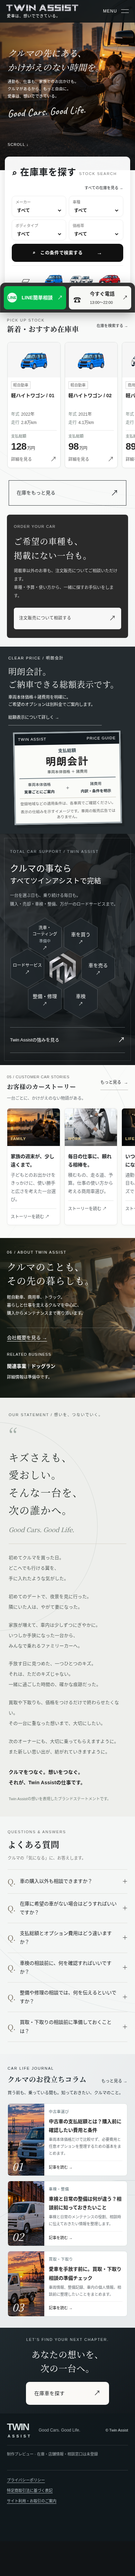
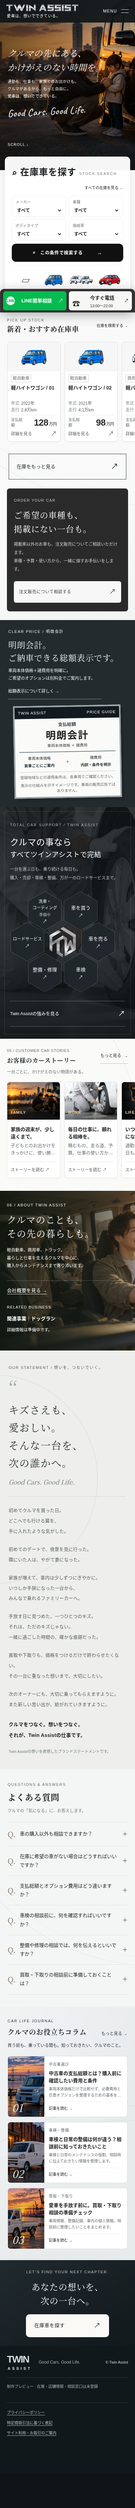
Compact mobile vehicle cards and sticky CTA and clamp editorial previews

diff --git a/cms/public/cms-public.css b/cms/public/cms-public.css
@@ -1,3 +1,7 @@
 .cms-public-main{background:#f7f9f7}.cms-public-list{padding:45px 38px}.cms-public-list>h1,.cms-public-detail>h1,.cms-contact>h1{font-family:'Yu Mincho',serif;font-size:32px;font-weight:500;line-height:1.7;margin:16px 0 25px}.cms-public-list>p{font-size:14px;margin:20px 0}.cms-public-grid{display:grid;grid-template-columns:repeat(3,minmax(0,1fr));gap:20px;margin-top:25px}.cms-public-card{background:white;border:1px solid #d5dfe0;border-radius:7px;overflow:hidden;min-width:0}.cms-public-card>a{display:block;height:100%}.cms-public-card>a>img{display:block;width:100%;height:170px;object-fit:cover}.cms-public-card>a>div{padding:17px}.cms-public-card h2{font-size:16px;line-height:1.6;letter-spacing:0;font-weight:500;margin:12px 0}.cms-public-card .eyebrow{font-size:11px;color:#82959c}.cms-public-card p{font-size:13px;line-height:1.9}.cms-public-card time{display:block;font-size:12px;color:#82959c;margin-top:14px}.cms-card-more{display:block;border-top:1px solid #d8e2df;font-size:13px;padding-top:13px;margin-top:17px}.cms-public-price{display:flex;justify-content:space-between;align-items:end;gap:9px;margin-top:15px}.cms-public-price>strong{font-size:28px;color:#25353b;font-weight:500}.cms-public-price small{font-size:11px;font-weight:400}.cms-public-price strong small{margin-left:3px}.cms-sale-status{font-size:12px;background:#e7eeeb;padding:4px 8px;color:#587064;display:inline-block;margin-top:10px}.cms-sample-tag{display:inline-block;color:#8a6c4b;border:1px solid #cebba2;font-size:11px;padding:2px 5px;margin-bottom:12px}.cms-public-empty{padding:30px 20px;border:1px solid #d7e1de;margin:25px 0;font-size:14px;background:#eef3ef}.cms-public-empty h2{font-size:22px}.cms-category-nav{display:flex;flex-wrap:wrap;gap:20px;border-bottom:1px solid #cbd7d6;margin:20px 0;font-size:14px}.cms-category-nav a{padding:13px 0}.cms-public-refine{padding:15px;border:1px solid #c7d5d1;font-size:14px}.cms-public-refine summary{cursor:pointer}.cms-public-refine form>div{display:grid;grid-template-columns:1fr 1fr;gap:15px}.cms-public-refine form .cms-field{display:grid;gap:8px;font-size:13px}.cms-public-refine .button{margin-top:15px}.cms-public-detail{padding:40px 38px}.cms-public-preview{background:#f3eede;border-left:3px solid #a6916a;padding:18px 20px;font-size:13px;color:#7a694b}.cms-public-preview a{display:block;text-decoration:underline}.cms-real-vehicle{display:grid;grid-template-columns:1.2fr 1fr;gap:25px;align-items:start;margin:25px 0}.cms-real-photo{position:relative;display:block;width:100%;border:1px solid #d6dfdf;background:#edf1ed;padding:0;cursor:zoom-in}.cms-real-photo img{display:block;width:100%;height:330px;object-fit:contain}.cms-real-photo span{position:absolute;bottom:10px;right:12px;background:#1c2a31bf;color:white;padding:5px 9px;font-size:12px}.cms-real-thumbs{display:grid;grid-template-columns:repeat(4,minmax(0,1fr));gap:8px;margin-top:12px}.cms-real-thumbs button{padding:0;background:white;border:1px solid #c5d2d2;cursor:pointer}.cms-real-thumbs button[aria-pressed=true]{border:2px solid #3e5a4c}.cms-real-thumbs img{width:100%;height:65px;object-fit:cover;display:block}.cms-real-price{background:white;border:1px solid #d0dcda;padding:22px}.cms-real-price>strong{font-size:49px;font-weight:500;line-height:1.6;display:block}.cms-real-price>strong small{font-size:15px}.cms-real-price>p{font-size:13px;line-height:2}.cms-real-price dl{margin:15px 0}.cms-real-price dl>div{display:flex;justify-content:space-between;gap:15px;font-size:13px;border-top:1px solid #d4dfdb;padding:12px 0}.cms-real-price dd{margin:0}.cms-real-price .button{display:flex;width:100%;margin-top:18px;min-width:0;padding:14px;font-size:13px}.cms-real-price .text-link{font-size:13px}.cms-public-specs,.cms-public-equipment,.cms-public-related{padding-top:30px;border-top:1px solid #c8d6d3;margin-top:35px}.cms-public-specs h2,.cms-public-equipment h2,.cms-public-related h2{font-size:25px;font-weight:500;margin-bottom:20px}.cms-public-specs>dl{display:grid;grid-template-columns:1fr 1fr;gap:0 25px}.cms-public-specs dl>div{display:grid;grid-template-columns:100px 1fr;gap:12px;padding:13px 0;border-bottom:1px solid #d2deda;font-size:14px}.cms-public-specs dd{margin:0}.cms-public-specs dt{color:#8a9b9f}.cms-public-equipment-grid{display:grid;grid-template-columns:repeat(3,minmax(0,1fr));gap:10px}.cms-public-equipment-grid>div{border:1px solid #b0c4b7;background:#eff8ef;color:#497451;padding:17px;text-align:center}.cms-public-equipment-grid>div.absent{background:#e9edeb;color:#89938f;border-color:#c7d0cc}.cms-public-equipment-grid strong{display:block;font-size:14px;font-weight:500}.cms-public-equipment-grid span{font-size:12px;display:block;margin-top:10px}.cms-article-body{padding:30px 0;max-width:760px;margin:auto}.cms-article-body h2{font-size:25px;margin:35px 0 18px;font-weight:500}.cms-article-body h3{font-size:19px;margin:25px 0 14px}.cms-article-body p,.cms-article-body li{font-size:14px;line-height:2.3;white-space:pre-wrap;overflow-wrap:anywhere}.cms-article-body p+p{margin-top:20px}.cms-article-body ul{padding-left:1.5em}.cms-article-body a{text-decoration:underline;color:#396a57;text-underline-offset:3px}.cms-public-meta{display:flex;gap:25px;flex-wrap:wrap;font-size:12px;color:#91a2a6;margin:15px 0 25px}.cms-public-cover{margin:25px 0}.cms-public-cover img{width:100%;max-height:500px;object-fit:cover;display:block}.cms-public-inline-images{display:grid;grid-template-columns:1fr 1fr;gap:18px;margin:25px 0}.cms-public-inline-images img{width:100%;height:auto}.cms-real-photo-dialog{width:min(900px,94vw);max-height:90vh;padding:20px;border:0;background:#f7f9f7}.cms-real-photo-dialog::backdrop{background:#000b}.cms-real-photo-dialog>button{display:block;margin-left:auto;font-size:25px;background:none;border:0}.cms-real-photo-dialog>img{display:block;max-height:65vh;width:100%;object-fit:contain}.cms-real-photo-dialog>div{display:flex;justify-content:space-between;align-items:center;gap:15px;margin-top:15px;font-size:14px}.cms-real-photo-dialog>div button{padding:10px 15px;background:white;border:1px solid #bccbc5}.cms-contact .cms-field{display:flex;flex-direction:column;gap:8px;font-size:14px;margin:20px 0}.cms-contact input,.cms-contact select,.cms-contact textarea{padding:12px;font:inherit;width:100%;border:1px solid #bccdc8;background:white;border-radius:0;height:auto}.cms-contact .cms-field small{font-size:12px;color:#8d9e9f}.cms-contact .cms-check{display:flex;align-items:start;gap:9px;font-size:14px;margin:20px 0}.cms-contact .cms-check input{width:15px;margin-top:5px;flex-shrink:0}.cms-contact .cms-check a{text-decoration:underline}.cms-contact .cms-status-list>div{border-bottom:1px solid #c9d6d4;padding:15px 0;display:grid;grid-template-columns:140px 1fr;gap:15px}.cms-contact .cms-status-list dt{font-size:13px;color:#80979a}.cms-contact .cms-status-list dd{font-size:14px;line-height:2;margin:0;overflow-wrap:anywhere}.cms-contact>.cms-error{background:#ffede7;color:#994f3c;border-left:3px solid #a86a52;padding:15px;margin:20px 0}.cms-contact form>.button{margin:18px 0}.cms-contact .cms-honeypot{position:absolute;left:-10000px;width:1px;height:1px;overflow:hidden}
 @media(max-width:767px){.cms-public-list,.cms-public-detail{padding:30px 22px}.cms-public-list>h1,.cms-public-detail>h1,.cms-contact>h1{font-size:26px}.cms-public-grid{grid-template-columns:1fr 1fr;gap:12px}.cms-public-card>a>img{height:120px}.cms-public-card>a>div{padding:12px}.cms-public-card h2{font-size:14px}.cms-public-card p{font-size:12px}.cms-public-price{display:block}.cms-public-price>strong{display:block;font-size:25px}.cms-category-nav{gap:15px;font-size:12px}.cms-real-vehicle{grid-template-columns:1fr;gap:22px}.cms-real-photo img{height:280px}.cms-public-specs>dl{grid-template-columns:1fr}.cms-public-equipment-grid{gap:7px}.cms-public-equipment-grid>div{padding:13px 6px}.cms-public-equipment-grid strong{font-size:12px}.cms-public-specs h2,.cms-public-equipment h2{font-size:22px}.cms-article-body p,.cms-article-body li{font-size:14px}.cms-article-body h2{font-size:23px}.cms-public-inline-images{grid-template-columns:1fr}.cms-contact .cms-field input,.cms-contact .cms-field select,.cms-contact .cms-field textarea{font-size:16px}.cms-contact .cms-status-list>div{grid-template-columns:1fr;gap:5px}.cms-home-stock,.cms-home-articles{display:grid;grid-template-columns:none;grid-auto-flow:column;grid-auto-columns:44%;overflow-x:auto;gap:12px;padding:1px 20px 12px 1px;scroll-snap-type:x mandatory}.cms-home-stock>article,.cms-home-articles>article{scroll-snap-align:start}.cms-public-preview{font-size:12px;padding:13px}}
 .cms-answer-summary,.cms-key-points,.cms-evidence-faq,.cms-sources{padding:24px;border:1px solid #cfdbd6;margin:25px 0;background:#f0f4f1}.cms-answer-summary h2,.cms-key-points h2,.cms-evidence-faq h2,.cms-sources h2{font-size:20px;font-weight:500;margin-bottom:15px}.cms-answer-summary p,.cms-key-points li,.cms-evidence-faq p,.cms-sources li{font-size:14px;line-height:2.1;color:#546c70;overflow-wrap:anywhere}.cms-evidence-faq details{border-top:1px solid #cad6d3;padding:15px 0}.cms-evidence-faq summary{font-size:14px;cursor:pointer}.cms-evidence-faq p{margin-top:12px}.cms-sources a{text-decoration:underline;text-underline-offset:3px}.cms-reviewed{font-size:13px;color:#7b9398;margin:22px 0}
+/* Editorial card previews are clamped; article bodies always remain complete. */
+.cms-public-card h2{display:-webkit-box;-webkit-box-orient:vertical;-webkit-line-clamp:2;line-clamp:2;overflow:hidden}
+.cms-public-card p:not(.cms-public-price){display:-webkit-box;-webkit-box-orient:vertical;-webkit-line-clamp:3;line-clamp:3;overflow:hidden}
+@media(max-width:767px){.cms-public-card>a>img{height:auto;aspect-ratio:1.8}.cms-public-card>a>div{padding:10px}.cms-public-card h2{font-size:14px;line-height:1.5;margin:6px 0}.cms-public-card p:not(.cms-public-price){-webkit-line-clamp:2;line-clamp:2;line-height:1.6}.cms-public-price{margin-top:8px}.cms-card-more{padding-top:7px;margin-top:8px}}

diff --git a/public/desktop-rails.css b/public/desktop-rails.css
@@ -76,3 +76,32 @@ header .logo .brand-wordmark{display:block;width:244px;max-width:100%;height:aut
 @media(max-width:374px){header .logo .brand-wordmark{width:176px}}
 
 @media(max-width:767px){.home-vehicle-grid .vehicle-card-image{padding-top:16px}}
+/* Keep editorial previews concise; the full text remains on the detail page. */
+.customer-story-body h3,.column-body h3{display:-webkit-box;-webkit-box-orient:vertical;-webkit-line-clamp:2;line-clamp:2;overflow:hidden}
+.customer-story-body p,.column-body p{display:-webkit-box;-webkit-box-orient:vertical;-webkit-line-clamp:3;line-clamp:3;overflow:hidden}
+@media(max-width:767px){
+ /* Two readable cards and a glimpse of the next, with less vertical padding. */
+ .vehicle-grid .vehicle-card-link{display:flex;flex-direction:column;height:100%;aspect-ratio:auto}
+ .vehicle-grid .vehicle-card-image{flex:none;height:auto;min-height:0;aspect-ratio:1.8;padding:8px 7px}
+ .vehicle-grid .vehicle-card-body{padding:9px 10px;display:flex;flex:1;flex-direction:column;min-height:0}
+ .vehicle-grid .vehicle-category{align-self:flex-start;font-size:12px;padding:1px 4px;line-height:1.5}
+ .vehicle-grid .vehicle-card h3{display:-webkit-box;-webkit-box-orient:vertical;-webkit-line-clamp:2;line-clamp:2;overflow:hidden;font-size:14px;line-height:1.5;min-height:3em;margin:6px 0 4px}
+ .vehicle-grid .vehicle-mini-spec{display:block;font-size:12px;line-height:1.55;margin:0 0 5px}
+ .vehicle-grid .vehicle-mini-spec>div{display:flex;gap:5px;margin:0}
+ .vehicle-grid .vehicle-card-price{display:flex;align-items:center;justify-content:space-between;gap:3px;margin-top:auto;padding-top:6px}
+ .vehicle-grid .vehicle-card-price>span{font-size:11px;line-height:1.4;max-width:2em;flex-shrink:0;margin:0}
+ .vehicle-grid .vehicle-card-price>strong{font-size:26px;line-height:1.2;white-space:nowrap}
+ .vehicle-grid .vehicle-card-price small{font-size:12px;margin-left:2px}
+ .vehicle-grid .vehicle-card-more{font-size:12px;min-height:20px;line-height:1.4;margin-top:5px}
+ .vehicle-grid .vehicle-card-more>span{font-size:17px}
+ .floating-contact{padding:6px 8px calc(6px + env(safe-area-inset-bottom));gap:7px;border-radius:12px 12px 0 0}
+ .floating-contact button{min-height:46px;padding:6px 9px;gap:5px;border-radius:7px}
+ .floating-contact strong{font-size:14px;line-height:1.3;letter-spacing:0}
+ .floating-contact small{font-size:11px;line-height:1.3;margin-top:2px}
+ .floating-contact .contact-symbol{width:25px;height:25px;font-size:10px}
+ .floating-contact .phone-symbol{font-size:22px}
+ .floating-contact button>span:last-child{font-size:14px}
+ .customer-story-body h3,.column-body h3{line-height:1.5}
+ .customer-story-body p,.column-body p{-webkit-line-clamp:2;line-clamp:2;line-height:1.6}
+ .customer-story-body{padding:10px}
+}
